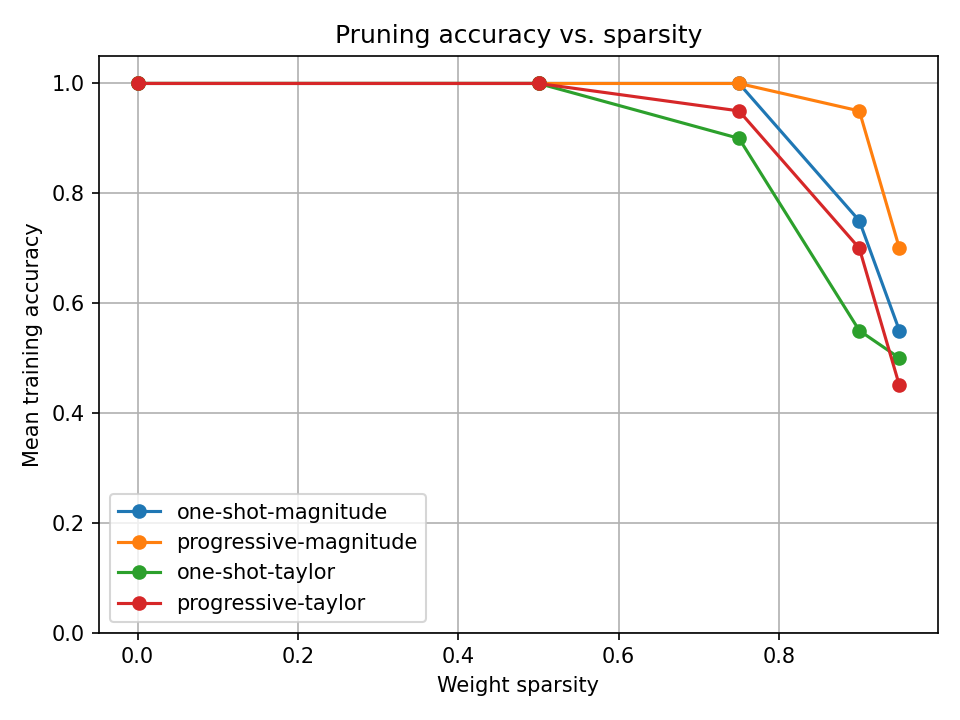
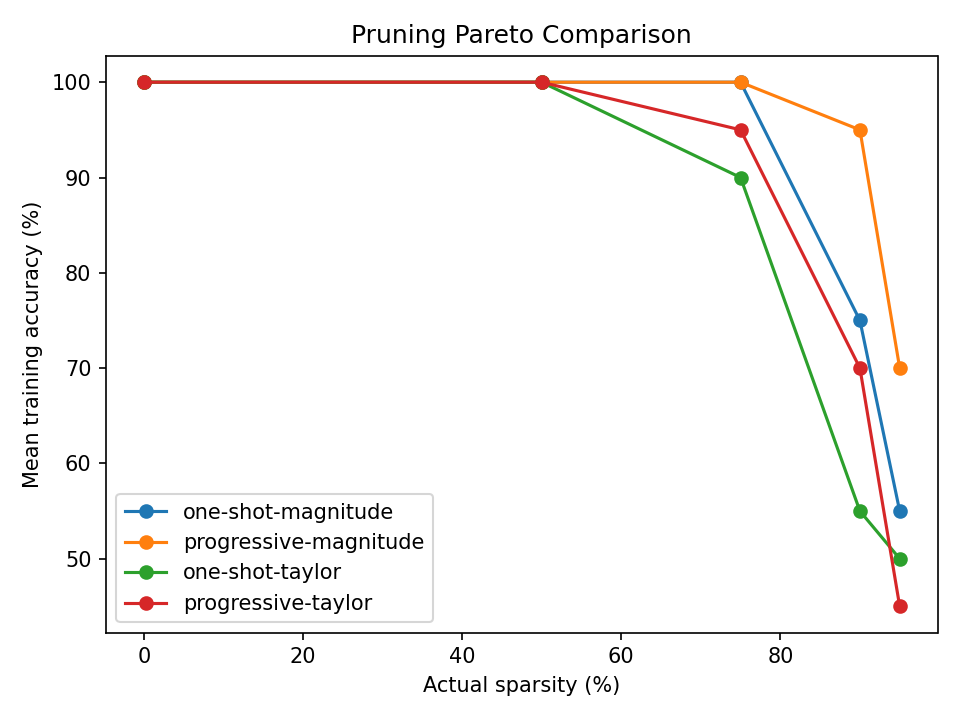
Strengthen gradient tests and reproducible pruning evidence

diff --git a/tests/test_tensor.py b/tests/test_tensor.py
@@ -469,3 +469,84 @@ def test_matrix_multiplication_gradient_matches_finite_difference():
     ) / (2.0 * epsilon)
 
     assert np.allclose(a.grad[0, 0], numerical, atol=1e-6)
+
+def test_broadcasted_subtraction_gradient_matches_finite_difference():
+    values = np.array([[1.0, 2.0], [3.0, 4.0]])
+    bias_values = np.array([0.5, -0.5])
+
+    x = Tensor(values.copy(), requires_grad=True)
+    bias = Tensor(bias_values.copy(), requires_grad=True)
+    (x - bias).sum().backward()
+
+    epsilon = 1e-5
+    plus = bias_values.copy()
+    minus = bias_values.copy()
+    plus[1] += epsilon
+    minus[1] -= epsilon
+    numerical = (np.sum(values - plus) - np.sum(values - minus)) / (2 * epsilon)
+
+    np.testing.assert_allclose(bias.grad[1], numerical, atol=1e-6)
+
+
+def test_sum_axis_gradient_matches_finite_difference():
+    values = np.array([[0.2, -0.4], [1.1, 2.0]])
+    x = Tensor(values.copy(), requires_grad=True)
+    x.sum(axis=0).sum().backward()
+
+    epsilon = 1e-5
+    plus = values.copy()
+    minus = values.copy()
+    plus[1, 0] += epsilon
+    minus[1, 0] -= epsilon
+    numerical = (np.sum(plus.sum(axis=0)) - np.sum(minus.sum(axis=0))) / (2 * epsilon)
+
+    np.testing.assert_allclose(x.grad[1, 0], numerical, atol=1e-6)
+
+
+def test_mean_axis_keepdims_gradient_matches_finite_difference():
+    values = np.array([[0.2, -0.4], [1.1, 2.0]])
+    x = Tensor(values.copy(), requires_grad=True)
+    x.mean(axis=1, keepdims=True).sum().backward()
+
+    epsilon = 1e-5
+    plus = values.copy()
+    minus = values.copy()
+    plus[1, 0] += epsilon
+    minus[1, 0] -= epsilon
+    numerical = (
+        np.sum(np.mean(plus, axis=1, keepdims=True))
+        - np.sum(np.mean(minus, axis=1, keepdims=True))
+    ) / (2 * epsilon)
+
+    np.testing.assert_allclose(x.grad[1, 0], numerical, atol=1e-6)
+
+
+def test_shared_intermediate_accumulates_gradient_from_multiple_paths():
+    x = Tensor(3.0, requires_grad=True)
+    shared = x * x
+    loss = shared + shared
+    loss.backward()
+
+    np.testing.assert_allclose(x.grad, 12.0)
+
+
+def test_multiplication_rhs_gradient_matches_finite_difference():
+    x = Tensor(3.0, requires_grad=True)
+    y = Tensor(4.0, requires_grad=True)
+    (x * y).backward()
+
+    epsilon = 1e-5
+    numerical = ((3.0 * (4.0 + epsilon)) - (3.0 * (4.0 - epsilon))) / (2 * epsilon)
+    np.testing.assert_allclose(y.grad.item(), numerical, atol=1e-6)
+
+
+def test_division_denominator_gradient_matches_finite_difference():
+    numerator = Tensor(6.0, requires_grad=True)
+    denominator = Tensor(3.0, requires_grad=True)
+    (numerator / denominator).backward()
+
+    epsilon = 1e-5
+    numerical = (
+        6.0 / (3.0 + epsilon) - 6.0 / (3.0 - epsilon)
+    ) / (2 * epsilon)
+    np.testing.assert_allclose(denominator.grad.item(), numerical, atol=1e-6)

diff --git a/tests/test_sgd.py b/tests/test_sgd.py
@@ -95,3 +95,52 @@ def test_sgd_resets_momentum_when_weight_is_revived():
 
     assert np.allclose(optimizer.velocity[weight], [1.0])
     assert np.allclose(weight.data, [-0.1])
+
+
+def test_masked_weight_forward_backward_prune_train_revive_end_to_end():
+    """A masked edge has zero effective weight/gradient and can learn after revival."""
+    weight = Tensor([1.0], requires_grad=True)
+    mask = np.array([1.0])
+    masks = {weight: mask.copy()}
+    optimizer = SGD([weight], lr=0.1, momentum=0.9, masks=masks)
+    input_value = Tensor([2.0])
+
+    # Establish nonzero momentum while the connection is active.
+    effective_weight = weight * Tensor(masks[weight])
+    loss = (input_value * effective_weight).sum()
+    loss.backward()
+    np.testing.assert_allclose(weight.grad, [2.0])
+    optimizer.step()
+    np.testing.assert_allclose(optimizer.velocity[weight], [2.0])
+
+    # Prune the connection; the real graph must produce zero output and gradient.
+    masks[weight] = np.array([0.0])
+    effective_weight = weight * Tensor(masks[weight])
+    loss = (input_value * effective_weight).sum()
+    np.testing.assert_allclose(loss.data, 0.0)
+    loss.backward()
+    np.testing.assert_allclose(weight.grad, [0.0])
+    optimizer.step()
+    np.testing.assert_allclose(weight.data, [0.0])
+    np.testing.assert_allclose(optimizer.velocity[weight], [0.0])
+
+    # Additional steps while pruned must not accumulate optimizer state.
+    for _ in range(3):
+        optimizer.zero_grad()
+        effective_weight = weight * Tensor(masks[weight])
+        loss = (input_value * effective_weight).sum()
+        loss.backward()
+        optimizer.step()
+        np.testing.assert_allclose(weight.data, [0.0])
+        np.testing.assert_allclose(optimizer.velocity[weight], [0.0])
+
+    # Revive it: fresh gradient updates it without stale pre-pruning momentum.
+    masks[weight] = np.array([1.0])
+    optimizer.zero_grad()
+    effective_weight = weight * Tensor(masks[weight])
+    loss = (input_value * effective_weight).sum()
+    loss.backward()
+    np.testing.assert_allclose(weight.grad, [2.0])
+    optimizer.step()
+    np.testing.assert_allclose(optimizer.velocity[weight], [2.0])
+    np.testing.assert_allclose(weight.data, [-0.2])

diff --git a/examples/regenerate_pruning_summary.py b/examples/regenerate_pruning_summary.py
@@ -1,0 +1,77 @@
+
+import csv
+from collections import defaultdict
+
+import matplotlib.pyplot as plt
+import numpy as np
+
+with open("pruning_trials.csv", newline="") as file:
+    trials = list(csv.DictReader(file))
+
+groups = defaultdict(list)
+for row in trials:
+    key = (row["method"], float(row["target_sparsity"]))
+    groups[key].append(row)
+
+expected_methods = [
+    "one-shot-magnitude",
+    "progressive-magnitude",
+    "one-shot-taylor",
+    "progressive-taylor",
+]
+targets = [0.0, 0.50, 0.75, 0.90, 0.95]
+
+summary = []
+for target in targets:
+    for method in expected_methods:
+        rows = groups[(method, target)]
+        if len(rows) != 5:
+            raise ValueError(
+                f"Expected 5 trials for {method} at {target}, "
+                f"found {len(rows)}"
+            )
+
+        accuracy = np.array([float(r["accuracy"]) for r in rows])
+        loss = np.array([float(r["loss"]) for r in rows])
+        sparsity = np.array(
+            [float(r["actual_sparsity"]) for r in rows]
+        )
+
+        summary.append({
+            "method": method,
+            "target_sparsity": target,
+            "mean_accuracy": float(accuracy.mean()),
+            "std_accuracy": float(accuracy.std()),
+            "mean_loss": float(loss.mean()),
+            "mean_sparsity": float(sparsity.mean()),
+        })
+
+with open("pruning_results.csv", "w", newline="") as file:
+    writer = csv.DictWriter(file, fieldnames=summary[0].keys())
+    writer.writeheader()
+    writer.writerows(summary)
+
+plt.figure()
+for method in expected_methods:
+    rows = sorted(
+        [r for r in summary if r["method"] == method],
+        key=lambda r: r["mean_sparsity"],
+    )
+    plt.plot(
+        [r["mean_sparsity"] * 100 for r in rows],
+        [r["mean_accuracy"] * 100 for r in rows],
+        marker="o",
+        label=method,
+    )
+
+plt.xlabel("Actual sparsity (%)")
+plt.ylabel("Mean training accuracy (%)")
+plt.title("Pruning Pareto Comparison")
+plt.legend()
+plt.tight_layout()
+plt.savefig("pruning_pareto.png", dpi=150)
+plt.close()
+
+print(f"Trials verified: {len(trials)}")
+print(f"Summary rows written: {len(summary)}")
+print("Regenerated pruning_results.csv and pruning_pareto.png")

diff --git a/tests/test_losses.py b/tests/test_losses.py
@@ -71,3 +71,20 @@ def test_softmax_cross_entropy_gradient_matches_finite_difference():
     ) / (2.0 * epsilon)
 
     assert np.allclose(logits.grad[0, 0], numerical, atol=1e-6)
+
+def test_binary_cross_entropy_gradient_matches_finite_difference():
+    values = np.array([-0.4, 0.8])
+    targets = np.array([0.0, 1.0])
+    logits = Tensor(values.copy(), requires_grad=True)
+    binary_cross_entropy_with_logits(logits, targets).backward()
+
+    epsilon = 1e-5
+    plus = values.copy()
+    minus = values.copy()
+    plus[1] += epsilon
+    minus[1] -= epsilon
+    numerical = (
+        binary_cross_entropy_with_logits(Tensor(plus), targets).data.item()
+        - binary_cross_entropy_with_logits(Tensor(minus), targets).data.item()
+    ) / (2 * epsilon)
+    np.testing.assert_allclose(logits.grad[1], numerical, atol=1e-6)

diff --git a/examples/train_mlp.py b/examples/train_mlp.py
@@ -26,6 +26,7 @@ def main():
     masks = {param: np.ones_like(param.data) for param in weights}
 
     optimizer = SGD(model.parameters(), lr=0.1, masks=masks)
+    rng = np.random.default_rng(42)
 
     epochs = 2000
     pruning_schedule = {
@@ -44,7 +45,7 @@ def main():
                 pruning_schedule[epoch],
             )
 
-        indices = np.random.permutation(len(X))
+        indices = rng.permutation(len(X))
         epoch_loss = 0.0
 
         for start in range(0, len(X), batch_size):

diff --git a/DESIGN.md b/DESIGN.md
@@ -76,13 +76,7 @@ Progressive pruning increases the target sparsity over multiple scheduled steps 
 The multi-seed experiment compares one-shot magnitude, progressive magnitude, one-shot Taylor saliency, and progressive Taylor saliency at multiple target sparsities.
 
 ### 4.4 Masked-weight gradient semantics
-
-A pruned parameter is constrained to remain zero by its mask. The mask is applied during parameter updates so that ordinary optimizer updates cannot restore a pruned value.
-
-The mask also applies to the corresponding momentum state. Without this, stored momentum could continue to affect a masked parameter or cause an unintended change if the parameter were later reactivated. The optimizer resets the momentum state for newly revived connections so that stale momentum is not carried into the revived parameter.
-
-The pruning experiments primarily use persistent masks; they do not establish that dynamic regrowth improves accuracy. Masked weights and optimizer state must be handled consistently for prune-then-revive behavior to be correct.
-
+A masked connection is constrained to contribute zero to the forward computation. In the current implementation, the optimizer enforces this constraint during `SGD.step()` by masking the parameter values, gradients, and momentum. Consequently, the gradient stored immediately after `backward()` may be nonzero for a masked connection; it is zeroed when the optimizer applies the mask. When a connection is revived, its momentum is reset before the update so stale momentum cannot corrupt its training. This defines the masking contract at the optimizer-step boundary.
 ## 5. Experimental Findings
 
 Experiments on the four-example XOR training dataset compare four pruning methods across five random seeds and target sparsities of 0%, 50%, 75%, 90%, and 95%.
